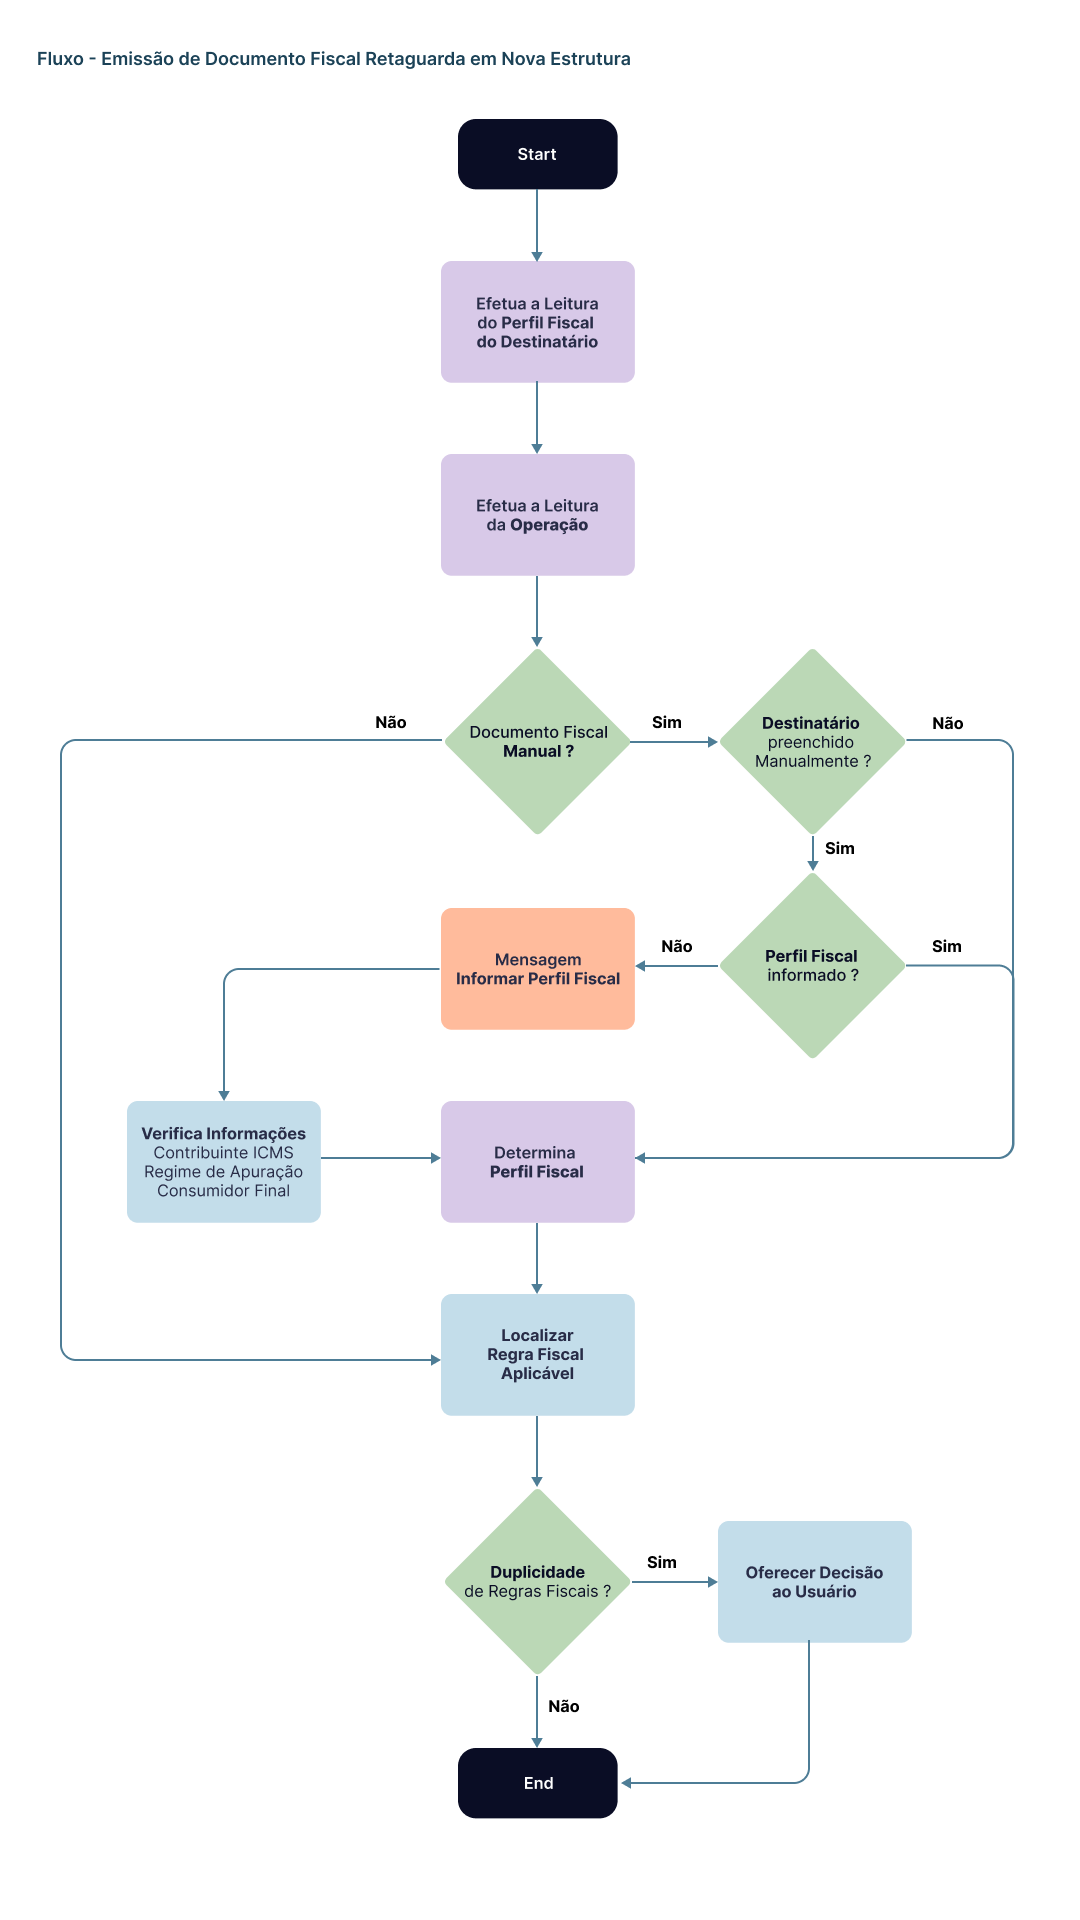
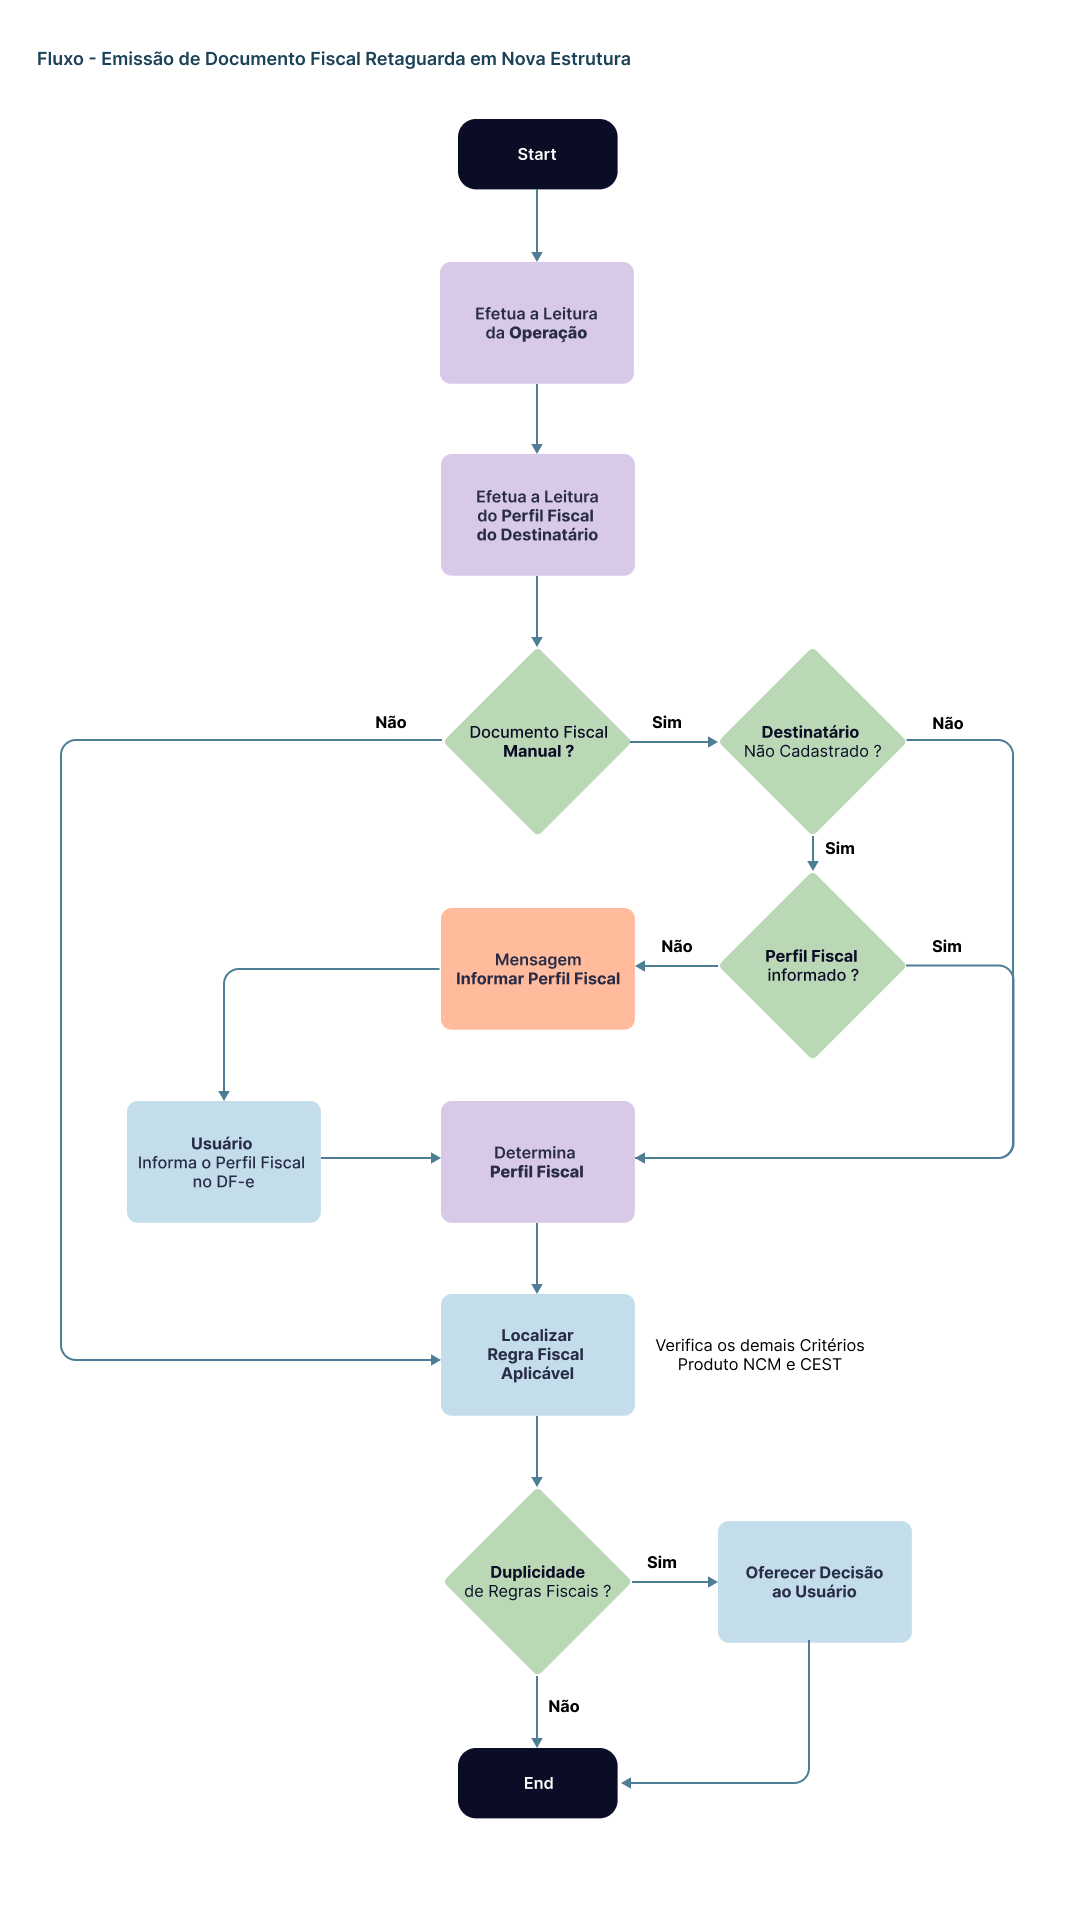
Update Document

diff --git a/Documentação - Integrações.md b/Documentação - Integrações.md
@@ -58,7 +58,7 @@
 
 # Resumo
 
-1. Realizar Adaptações no Sistema
+1. Adaptações no Sistema Independentes de Integrações
    1. Analisar todas as [Rotinas Afetadas](#relação-de-rotinas-afetadas)
    2. Implementar os Requisitos do [Cadastro de Empresas](#cadastro-de-empresas)
    3. Implementar os Requisitos dos [Parâmetros do Sistema](#parâmetros-do-sistema)
@@ -77,12 +77,13 @@
    16. Implementar os Requisitos dos [Documentos Fiscais](#documentos-fiscais---df-e)
    17. Implementar os Requisitos dos [Relatórios](#relatórios)
    18. Implementar os Requisitos do [Gerador de Etiquetas](#gerador-de-etiquetas)
+2. Adaptações de Novos Recursos para Integrações
    19. Implementar os Requisitos da [Nova Tela de Gerenciador Tributário](#nova-tela---gerenciador-tributário)
    20. Implementar os Requisitos da [Nova Tela de Comparativo de Tributos](#nova-tela---comparativo-de-tributos-antes-x-depois)
    21. Implementar os Requisitos da [Nova Tela de Consulta por Descrição de Produto](#nova-tela---consulta-por-descrição-de-produto)
    22. Implementar os Requisitos da [Camada de Tratamento de Dados](#camada-de-tratamento-de-dados)
    23. Implementar os Requisitos de [Segurança](#requisitos-de-segurança)
-2. Analisar Documentações Individuais para cada **Integrador Fiscal**
+3. Analisar Documentações Individuais para cada **Integrador Fiscal** e realizar as Implementações.
 
 # Relação de Rotinas Afetadas
 
@@ -127,7 +128,7 @@ Nesta Seção, são descritos os **Requisitos Globais** obrigatórios e comuns a
 
 Determinados Integradores requerem informações específicas da Empresa Integrada que serão utilizadas durante uma requisição à API, deste modo, novos campos são necessários e estão relacionados abaixo:
 
-| Nome              | Descritivo                                                                                                                                                                                                                    | Validações                                                                                                                                                                                          | Obrigatório |
+| Nome              | Descritivo                                                                                                                                                                                                                   | Validações                                                                                                                                                                                          | Obrigatório |
 | :---------------- | :---------------------------------------------------------------------------------------------------------------------------------------------------------------------------------------------------------------------------- | :-------------------------------------------------------------------------------------------------------------------------------------------------------------------------------------------------- | :---------: |
 | Regime Tributário | Criar campo para informar a Subclassificação do CRT "Regime Normal", cuja informação pode ser definida entre "**Lucro Real - LR**" ou "**Lucro Presumido - LP**". Este dado é obrigatório para a obtenção de Regras corretas. | Deve ser permitido informá-lo apenas se o CRT selecionado for igual a "3 - Regime Normal".                                                                                                          |   **Sim**   |
 | Área da Loja      | Criar campo para informar o tamanho da área física ocupada pelo estabelecimento do cliente em Metros Quadrados                                                                                                                | Informação importante para o Integrador Mix Fiscal, que oferece para o Cliente Integrado insights de organização mercadológica de espaços, proximidade de produtos e composição de mix de produtos. |   **Não**   |
@@ -180,7 +181,7 @@ Alguns Integradores requerem que uma **Operação** seja bem definida durante a 
 | **Botão de Seleção**    | Grupo de Dados da Finalidade | Tipo de Movimentação                       | Seleção para indicar se a Finalidade de Operação cadastrada é uma Movimentação do Tipo **Entrada** ou **Saída**. Utilizado em conjunto com os demais campos para complementar dados da Requisição. Esta informação também será utilizada para composição de Regras Fiscais de Entrada ou Saída                                                                                                                 | Preenchimento Obrigatório.                                                                                                                                                                                                                                                                                                                                                                                                                                                                    |
 | **Caixa de Combinação** | Grupo de Dados da Finalidade | Operação                                   | Seleção para indicar a Espécie de Operação com base nas Movimentações existentes no Sistema, como por exemplo, as Movimentações existentes na Tela de Documentos Fiscais (Venda, Devolução de Venda, Devolução de Compra, Remessa de Entrega Futura, Saída para Consumo...). Esta informação auxiliará a identificar com maior precisão Regra Fiscal a ser aplicada no momento da Emissão do Documento Fiscal. | Preenchimento Obrigatório. <br> Deve conter por padrão todas as "Operações" padronizadas possíveis que podem ser: <br><br> - Entrada de Mercadorias <br> - Venda a Consumidor Final <br> - Venda a Contribuinte <br> - Acompanhamento de Cupom Fiscal <br> - Devolução de Compra <br> - Devolução de Venda <br> - Transferência de Estoque <br> - Saída para Consumo <br> - Saída para Produção <br> - Saída por Perda <br> - Remessa de Entrega Futura <br> - Reclassificação de Mercadorias |
 | **Grupo de Dados**      | Tela                         | Cenário Fiscal                             | Grupo para organizar dados específicos do Cenário Fiscal da Finalidade de Operação.                                                                                                                                                                                                                                                                                                                            | Preenchimento Obrigatório.                                                                                                                                                                                                                                                                                                                                                                                                                                                                    |
-| **Campo**               | Cenário Fiscal               | CFOP Padrão                                | Criar campo para informar o Código do CFOP padrão para a Operação Cadastrada. Utilizado em conjunto com os demais campos para complementar dados da requisição a API do Integrador, e para complementar dados da Regra Fiscal quando criada por um Integrador que não retorna esta informação.                                                                                                                 | Preenchimento Obrigatório. Validar se o CFOP existe na Tabela de CFOPs do Sistema Ganso conforme a definição do Tipo de Movimentação de **Entrada** ou **Saída**                                                                                                                                                                                                                                                                                                                              |
+| **Campo**               | Cenário Fiscal               | CFOP Padrão                                | Criar campo para informar o Código do CFOP padrão para a Operação Cadastrada. Utilizado em conjunto com os demais campos para complementar dados da requisição a API do Integrador, e para complementar dados da Regra Fiscal quando criada por um Integrador que não retorna esta informação.                                                                                                                 | **Preenchimento Obrigatório, Se houver Integrador Fiscal Ativado**. Validar se o CFOP existe na Tabela de CFOPs do Sistema Ganso conforme a definição do Tipo de Movimentação de **Entrada** ou **Saída**                                                                                                                                                                                                                                                                                                                              |
 | **Caixa de Combinação** | Cenário Fiscal               | Finalidade do Produto                      | Criar campo para definir a Finalidade do Produto. Alguns Integradores podem requerer este dado que se refere à finalidade do produto (destinação) para retornar a regra correta. Deve existir por padrão as seguintes opções:<br> - Mercadoria para Revenda <br> - Insumos de Produção <br> - Materiais para Uso e Consumo ou Ativo Imobilizado                                                                | Preenchimento obrigatório.                                                                                                                                                                                                                                                                                                                                                                                                                                                                    |
 | **Caixa de Combinação** | Cenário Fiscal               | Origem                                     | Caixa de Combinação para definir a "Origem da Operação". Esta informação é exigida por alguns Integradores para criação de um _Cenário Fiscal_ na API.                                                                                                                                                                                                                                                         | Preenchimento Obrigatório quando o Integrador ativado é igual a **Mix Fiscal**. Deve existir por padrão as seguintes opções: <br> EI - Entrada Indústria <br> ED - Entrada Distribuidor <br> ES - Entrada Simples Nacional <br> BO - Bonificação <br> TR - Transferência. <br> A sigla referente à opção definida é utilizada na Criação de um Cenário Fiscal na API.                                                                                                                         |
 | **Caixa de Combinação** | Cenário Fiscal               | Destino                                    | Criar campo para definir o Parâmetro "Destino da Operação". Esta informação é exigida por alguns Integradores para criação de um _Cenário Fiscal_ na API.                                                                                                                                                                                                                                                      | Preenchimento Obrigatório quando o Integrador ativado é igual a **Mix Fiscal**. A sigla referente à opção definida é utilizada na Requisição à API. Deve existir por padrão as seguintes opções: <br> SAC - Saída Atacado Contribuinte <br> SAS - Saída Atacado Simples Nacional <br> SVC - Saída Varejo Contribuinte <br> SNC - Saída Não Contribuinte <br> IND - Industrialização <br> TRA - Transferência                                                                                  |
@@ -399,10 +400,11 @@ Além das alterações de origem de dados, serão necessários criar novos campo
 
 ## Documentos Fiscais - DF-e
 
-1. Revisar as Fórmulas que processam os dados tributários do Produto e alimentam os campos do **Item no Documento Fiscal**.
-2. Cada Operação (Tipo de Movimentação) exige uma Fórmula específica. Este processo deverá permanecer, contudo, os **Dados Tributários** devem ser obtidos de uma **Regra Fiscal cuja Finalidade e Operação corresponda ao Tipo de Movimentação e Perfil Fiscal do Destinatário** informados no Documento Fiscal.
-3. Todos os Dados Tributários (ICMS, IPI, PIS, COFINS, Imposto de Importação e DIFAL) deverão ser lidos de uma **Regra Fiscal** correspondente a Operação.
-4. Havendo duplicidade de Regras ou Inexistência da mesma, o usuário deve ser precisamente informado sobre quais produtos não tiveram os Tributos processados. Neste cenário, o Usuário deve ser orientado a criar uma Regra ou optar por preencher manualmente as informações no Documento Fiscal (quando o tipo possibilitar).
+1. Criar novo campo **"Perfil Fiscal"** na Aba **Remetente/Destinátário** para que o Usuário possa informar um Perfil Fiscal cadastrado, quando informado um Destinatários não cadastrado no Sistema.
+2. Revisar as Fórmulas que processam os dados tributários do Produto e alimentam os campos do **Item no Documento Fiscal**.
+3. Cada Operação (Tipo de Movimentação) exige uma Fórmula específica. Este processo deverá permanecer, contudo, os **Dados Tributários** devem ser obtidos de uma **Regra Fiscal cuja Finalidade e Operação corresponda ao Tipo de Movimentação e Perfil Fiscal do Destinatário** informados no Documento Fiscal.
+4. Todos os Dados Tributários (ICMS, IPI, PIS, COFINS, Imposto de Importação e DIFAL) deverão ser lidos de uma **Regra Fiscal** correspondente a Operação.
+5. Havendo duplicidade de Regras ou Inexistência da mesma, o usuário deve ser precisamente informado sobre quais produtos não tiveram os Tributos processados. Neste cenário, o Usuário deve ser orientado a criar uma Regra ou optar por preencher manualmente as informações no Documento Fiscal (quando o tipo possibilitar).
 
 ### Fluxo - Emissão de Documento Fiscal com a Nova Estrutura
 
